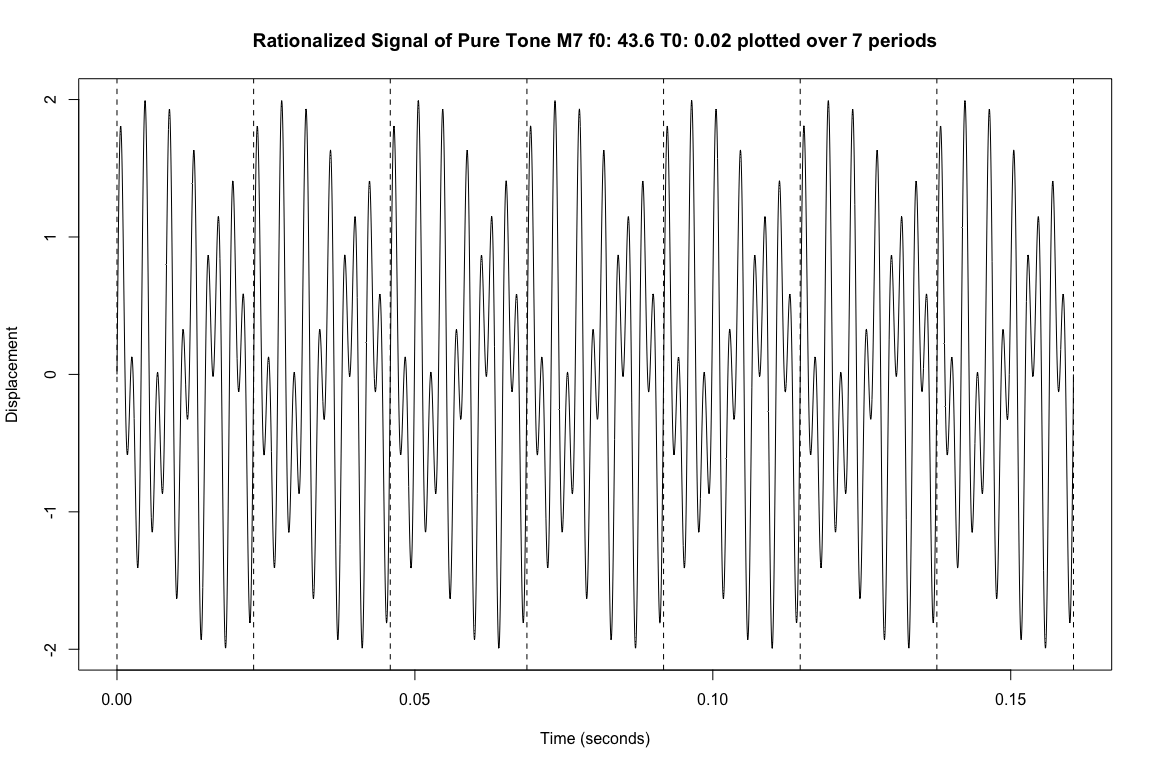
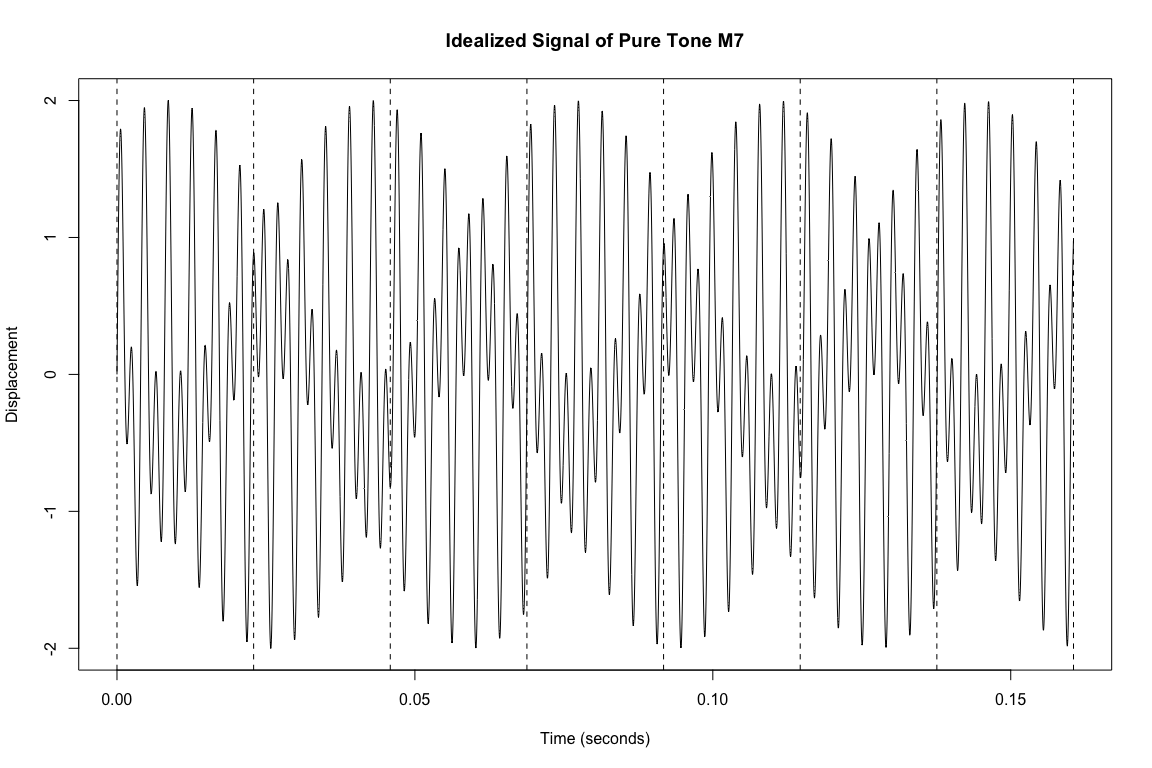
updated math on readme

Changed region(s): [[0.0938, 0.125, 0.9375, 0.8438], [0.2188, 0.0312, 0.8125, 0.0625]]

diff --git a/README.md b/README.md
@@ -186,9 +186,9 @@ Let’s find the rational approximation of two example frequencies that
 form a Major 7th interval:
 
 $$
-f = 493.8833\ \text{(B4)}, 
+f_{\mathrm{ref}} = 261.6256\ \text{(C4)},
 \quad
-f_{\mathrm{ref}} = 261.6256\ \text{(C4)}
+f = 493.8833\ \text{(B4)}
 $$
 
 ![](man/figures/README-unnamed-chunk-6-1.png)<!-- -->
@@ -222,17 +222,21 @@ $$
 
 Idealized Frequencies:
 
-$$f = \{261.63, 493.88\}$$
+$$\mathbf{f} = ( 261.63, 493.88 )$$
 
 Equation for Rational Fraction Frequencies:
 
 $$
-\mathbf{f} = f_{ref} \bigl( \frac{a_i}{b_i},\frac{a_i}{b_i},\dots,\frac{a_N}{b_N} \bigr)
+\mathbf{f} = f_{ref} \cdot \bigl( \frac{a_i}{b_i},\frac{a_i}{b_i},\dots,\frac{a_N}{b_N} \bigr)
+$$
+
+$$
+\mathbf{f} = 261.63  \cdot \bigl( \frac{1}{1},\frac{11}{6} \bigr)
 $$
 
 Rational Fraction Frequencies:
 
-$$f = \{261.63, 479.65\}$$
+$$\mathbf{f} = ( 261.63, 479.65 )$$
 
 ![](man/figures/README-unnamed-chunk-10-1.png)<!-- -->
 
@@ -245,10 +249,9 @@ linear frequency sensor.
 
 Our auditory system amplifies signals in a way that creates new tones.
 Those tones give us more information that allows us to hear changes and
-still over the uncertainty principle.
+still obey the uncertainty principle.
 
-TODO: show this example again but with the cochlear distoration
-products.
+TODO: show this example again but with the cochlear distortion products.
 
 ## Fundamental Wavelength of a N-Tone Chord
 
